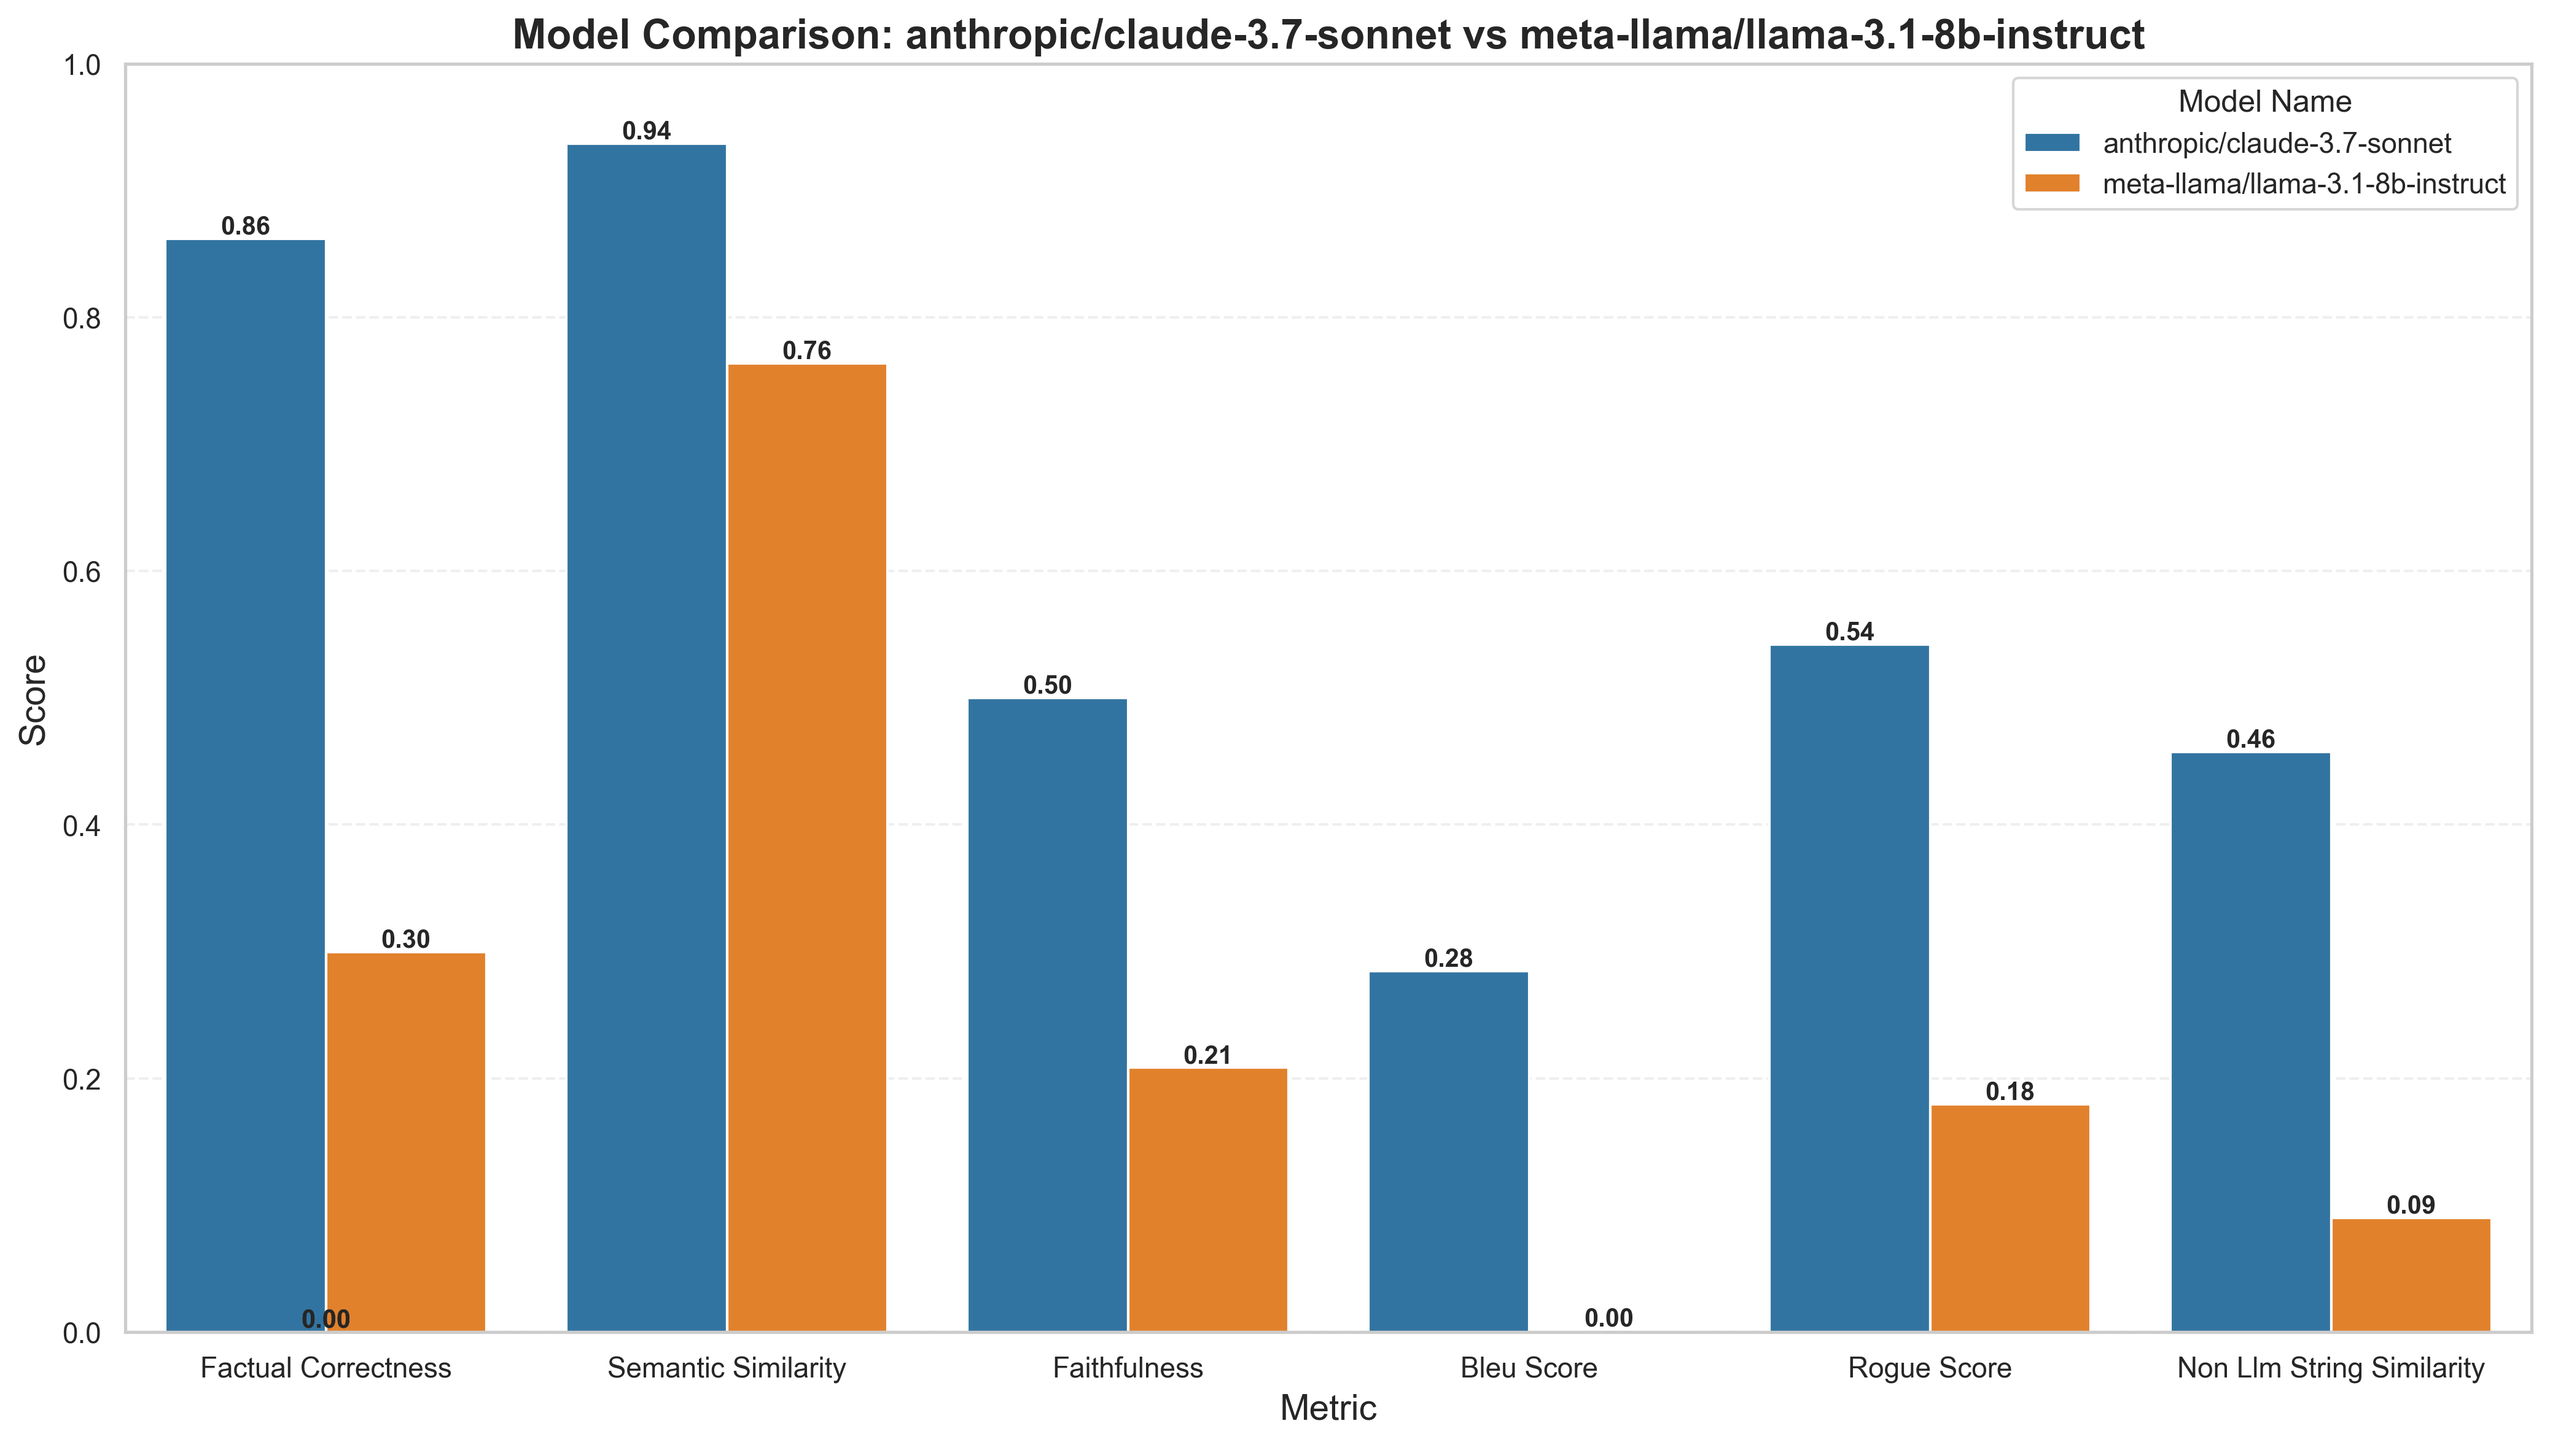
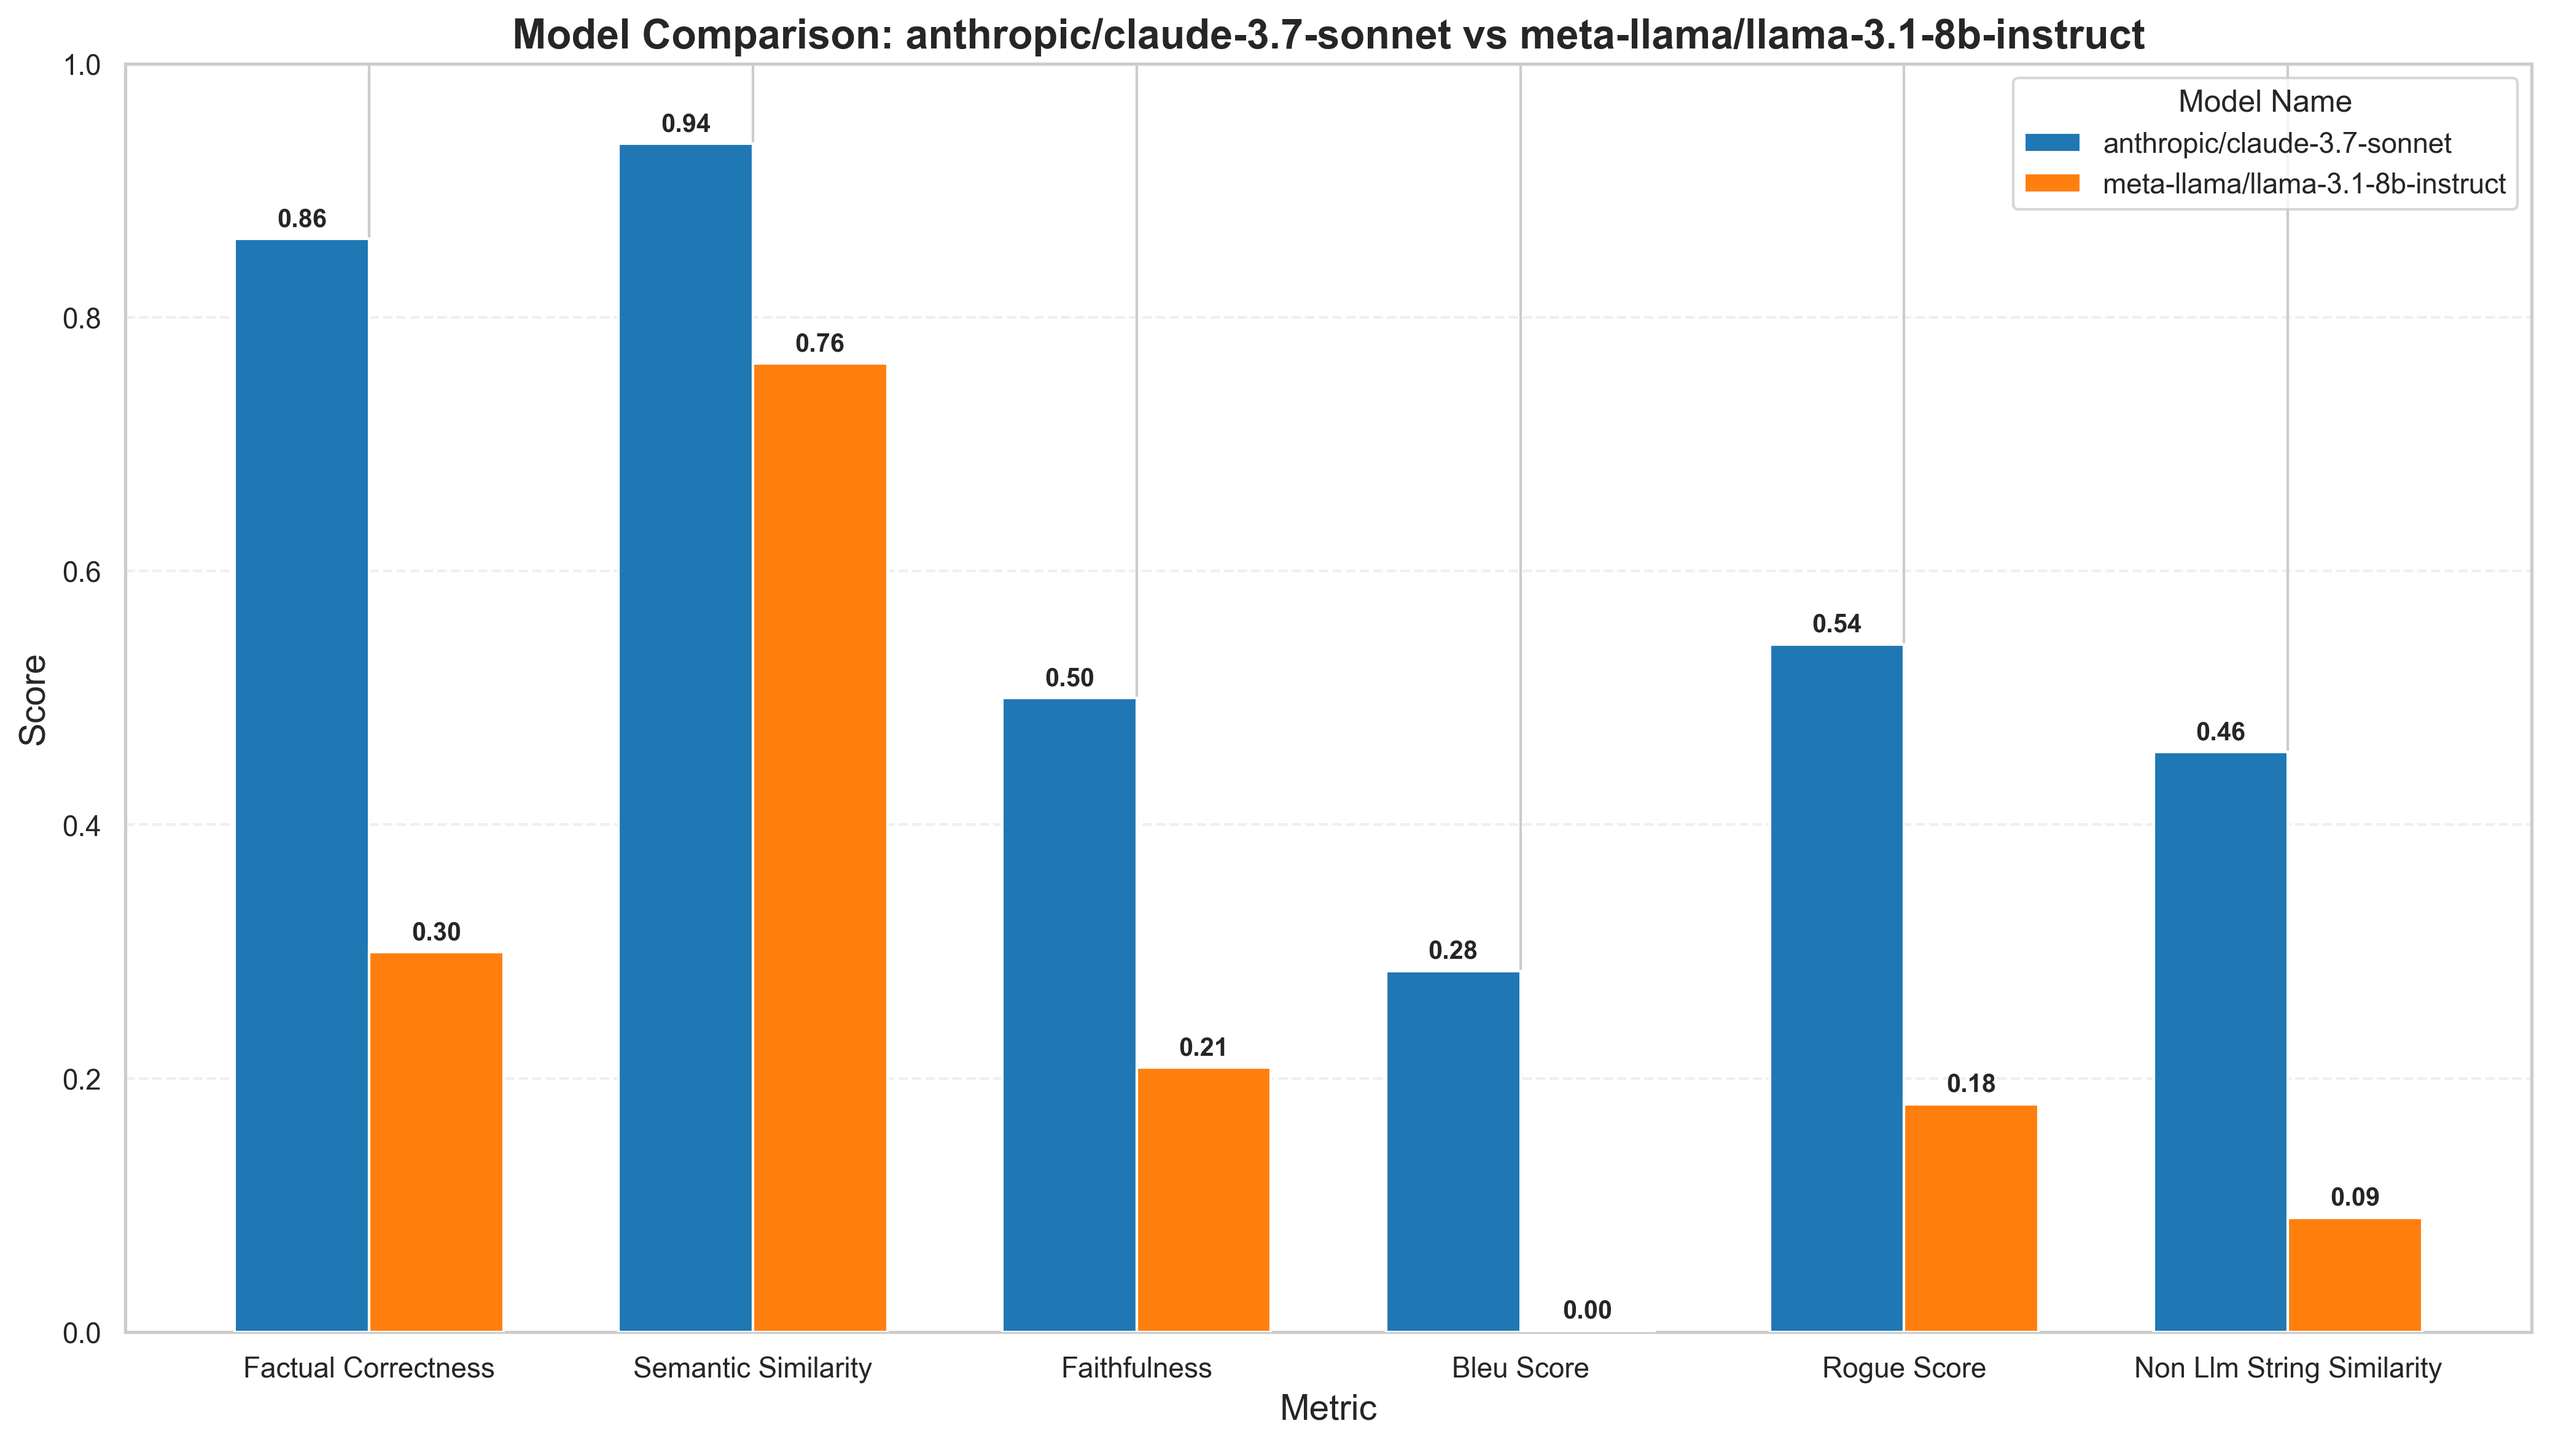
Fix 0.00 annotation bug and improve chart clarity with custom matplotlib implementation

diff --git a/backend/app/utils/chart_generator.py b/backend/app/utils/chart_generator.py
@@ -752,48 +752,75 @@ class ChartGenerator:
             lambda x: ' '.join(word.capitalize() for word in x.split('_'))
         )
         
-        # Create figure
-        plt.figure(figsize=(14, 8), facecolor='white')
+        # Completely fresh approach - use a custom plotting method
         
-        # Create grouped bar chart with improved colors
+        # Close any existing plots and start fresh
+        plt.close('all')
+        
+        # Create a new figure and axis
+        fig, ax = plt.subplots(figsize=(14, 8), facecolor='white')
+        
+        # Get unique metrics and models
+        metrics_display = df_melted['Metric'].unique()
+        models = df_melted['model_name'].unique()
+        num_metrics = len(metrics_display)
+        
+        # Define colors
         colors = ['#1f77b4', '#ff7f0e']  # Blue and orange for better contrast
         
-        ax = sns.barplot(
-            data=df_melted,
-            x='Metric',
-            y='Score',
-            hue='model_name',
-            palette=colors
-        )
+        # Custom bar positioning
+        width = 0.35  # Width of the bars
+        x = np.arange(num_metrics)  # Metric positions on x-axis
         
-        # Add labels and title
-        plt.title(f'Model Comparison: {model1} vs {model2}', fontsize=16, fontweight='bold')
-        plt.xlabel('Metric', fontsize=14)
-        plt.ylabel('Score', fontsize=14)
+        # Custom bar plot to replace seaborn's barplot
+        for i, model in enumerate(models):
+            model_data = df_melted[df_melted['model_name'] == model]
+            
+            # Get scores for each metric
+            scores = [model_data[model_data['Metric'] == metric]['Score'].values[0] 
+                     for metric in metrics_display]
+            
+            # Plot bars with offset positions
+            offset = width * (i - 0.5)
+            bars = ax.bar(x + offset, scores, width, label=model, color=colors[i], zorder=5)
+            
+            # Add text annotations for each bar
+            for j, bar in enumerate(bars):
+                height = bar.get_height()
+                ax.annotate(f'{height:.2f}',
+                          xy=(bar.get_x() + bar.get_width() / 2, height),
+                          xytext=(0, 3),  # 3 points vertical offset
+                          textcoords="offset points",
+                          ha='center', va='bottom',
+                          fontsize=10, fontweight='bold', zorder=10)
+        
+        # Configure the rest of the chart
+        ax.set_title(f'Model Comparison: {model1} vs {model2}', fontsize=16, fontweight='bold')
+        ax.set_xlabel('Metric', fontsize=14)
+        ax.set_ylabel('Score', fontsize=14)
+        
+        # Place metrics at the center of each group
+        ax.set_xticks(x)
+        ax.set_xticklabels(metrics_display)
         
         # Add grid for better readability
-        plt.grid(axis='y', linestyle='--', alpha=0.3)
+        ax.grid(axis='y', linestyle='--', alpha=0.3, zorder=0)
         
         # Ensure y-axis starts at 0 and ends at 1.0 for better comparison
-        plt.ylim(0, 1.0)
+        ax.set_ylim(0, 1.0)
         
-        # Add data labels with values
-        for p in ax.patches:
-            ax.annotate(f'{p.get_height():.2f}', 
-                      (p.get_x() + p.get_width() / 2., p.get_height()),
-                      ha='center', va='bottom',
-                      fontsize=10, fontweight='bold')
-        
-        # Improve legend with custom title
-        plt.legend(title='Model Name', loc='upper right')
+        # Add legend
+        ax.legend(title='Model Name', loc='upper right')
         
         # Adjust layout
-        plt.tight_layout()
+        fig.tight_layout()
         
         # Save the figure with sanitized filename
         safe_model1 = self._sanitize_filename(model1)
         safe_model2 = self._sanitize_filename(model2)
-        return self._save_figure(f"model_comparison_{safe_model1}_vs_{safe_model2}", dpi=300)
+        
+        # Save the figure with the custom plotting approach
+        return self._save_figure(f"model_comparison_{safe_model1}_vs_{safe_model2}", fig=fig, dpi=300)
 
     def all_models_all_metrics(self) -> str:
         """
